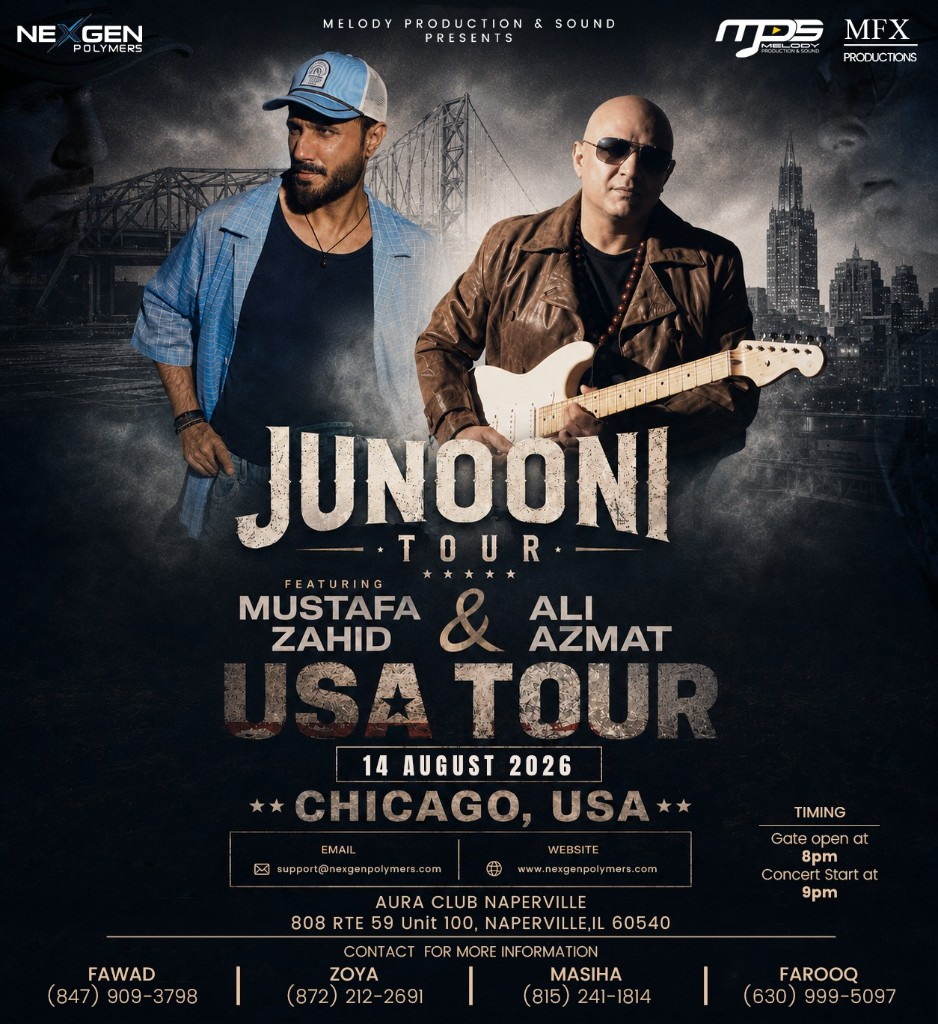
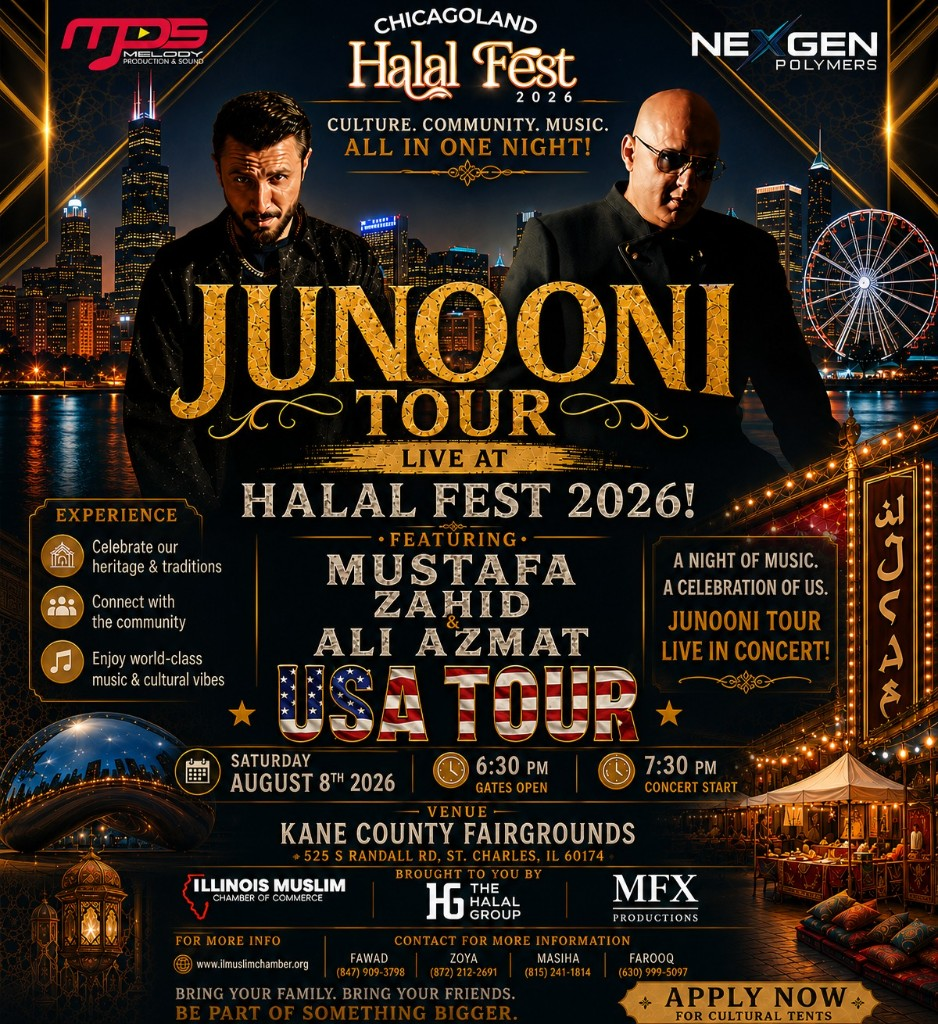
Update Junooni Tour for Halal Fest 2026 poster and new ticket pricing.
Refresh poster, venue, date, and description for Kane County Fairgrounds, and set GA/VIP list and sale prices to $40/$35 and $60/$50.

diff --git a/backend/seed.js b/backend/seed.js
@@ -12,31 +12,37 @@ const events = [
   {
     title: 'Junooni Tour — USA',
     description:
-      'JUNOONI TOUR — USA TOUR featuring Mustafa Zahid & Ali Azmat. Presented by Nexgen Polymers.\n\n' +
-      'Friday, August 14, 2026 at Aura Club Naperville, Chicago area. Gates open at 8:00 PM · Concert starts at 9:00 PM (US Central).\n\n' +
+      'JUNOONI TOUR — USA TOUR featuring Mustafa Zahid & Ali Azmat. Live at Chicagoland Halal Fest 2026!\n\n' +
+      'Saturday, August 8, 2026 at Kane County Fairgrounds, St. Charles, IL. Gates open at 6:30 PM · Concert starts at 7:30 PM (US Central).\n\n' +
+      'Culture. Community. Music. All in one night! Celebrate our heritage & traditions, connect with the community, and enjoy world-class music & cultural vibes.\n\n' +
+      'A night of music. A celebration of us. Junooni Tour live in concert! Bring your family. Bring your friends. Be part of something bigger.\n\n' +
       'Grab It Hot is proud to list this experience. When you book or request tickets here, you get clear information, careful handling of your details, and a straightforward path to confirmation.\n\n' +
-      'Booking & inquiries: Fawad — +1 (847) 909-3798\n' +
-      'Support: support@nexgenpolymers.com\n' +
-      'Official sponsor: Nexgen Polymers — www.nexgenpolymers.com',
+      'Booking & inquiries:\n' +
+      '• Fawad — (847) 909-3798\n' +
+      '• Zoya — (872) 212-2691\n' +
+      '• Masiha — (815) 241-1814\n' +
+      '• Farooq — (630) 999-5097\n\n' +
+      'Presented with support from MPS Melody Production & Sound, Nexgen Polymers, Illinois Muslim Chamber of Commerce, The Halal Group, and MFX Productions.\n' +
+      'www.ilmuslimchamber.org',
     category: 'Music',
-    date: new Date('2026-08-14T21:00:00-05:00'),
-    endDate: new Date('2026-08-15T01:30:00-05:00'),
+    date: new Date('2026-08-08T19:30:00-05:00'),
+    endDate: new Date('2026-08-09T00:00:00-05:00'),
     location: {
-      venue: 'Aura Club Naperville',
-      city: 'Naperville',
+      venue: 'Kane County Fairgrounds',
+      city: 'St. Charles',
       state: 'IL',
-      address: '808 South Route 59',
-      zipCode: '60540',
+      address: '525 S Randall Rd',
+      zipCode: '60174',
     },
     organizer: {
-      name: 'Nexgen Polymers',
+      name: 'Illinois Muslim Chamber of Commerce',
       email: 'support@nexgenpolymers.com',
       phone: '+1 (847) 909-3798',
     },
     image: '/uploads/junooni-tour-usa-2026.png',
     ticketTiers: [
-      { name: 'General Admission', price: 50, capacity: 800, description: 'GA floor · 21+' },
-      { name: 'VIP', price: 75, capacity: 200, description: 'VIP access · venue rules apply' },
+      { name: 'General Admission', price: 40, capacity: 800, description: 'GA floor · 21+' },
+      { name: 'VIP', price: 60, capacity: 200, description: 'VIP access · venue rules apply' },
       {
         name: 'VVIP (Meet&Greet Included)',
         price: 150,
@@ -47,7 +53,7 @@ const events = [
     featured: true,
     status: 'upcoming',
     dateComingSoon: false,
-    tags: ['Junooni', 'Mustafa Zahid', 'Ali Azmat', 'Naperville', 'Chicago', 'Nexgen Polymers'],
+    tags: ['Junooni', 'Mustafa Zahid', 'Ali Azmat', 'Halal Fest', 'St. Charles', 'Chicago', 'Kane County Fairgrounds'],
   },
   {
     title: 'Farhan Live in Chicago',

diff --git a/frontend/src/utils/helpers.js b/frontend/src/utils/helpers.js
@@ -47,14 +47,14 @@ export const formatEventDate = (date) => {
 export const formatEventSchedule = (event) => {
   if (event?.dateComingSoon) return 'Coming soon';
   if (isJunooniTourEvent(event)) {
-    return 'Fri, Aug 14, 2026 · Gates 8:00 PM · Show 9:00 PM CDT';
+    return 'Sat, Aug 8, 2026 · Gates 6:30 PM · Show 7:30 PM CDT';
   }
   return formatEventDateTime(event?.date);
 };
 
 export const formatEventScheduleDate = (event) => {
   if (event?.dateComingSoon) return 'Coming soon';
-  if (isJunooniTourEvent(event)) return 'Fri, Aug 14, 2026';
+  if (isJunooniTourEvent(event)) return 'Sat, Aug 8, 2026';
   return formatEventDate(event?.date);
 };
 
@@ -107,8 +107,8 @@ export const ARJUN_RAMPAL_DISCOUNT_PER_TICKET = ARJUN_RAMPAL_LIST_PRICE - ARJUN_
 
 /** List / sale prices for Junooni Tour ticket tiers (tier `price` in DB = list). */
 export const JUNOONI_TIER_PRICES = {
-  'General Admission': { list: 50, sale: 45 },
-  VIP: { list: 75, sale: 65 },
+  'General Admission': { list: 40, sale: 35 },
+  VIP: { list: 60, sale: 50 },
   VVIP: { list: 150, sale: 125 },
 };
 
